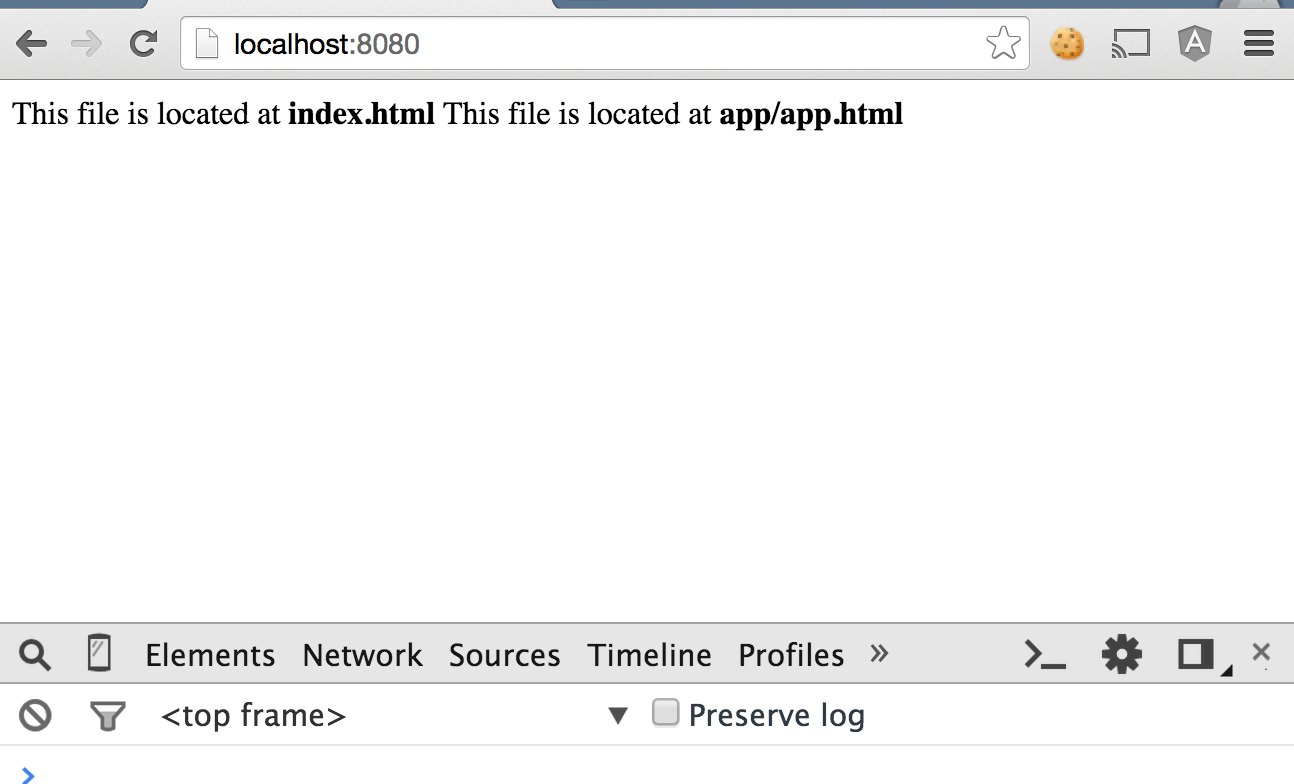
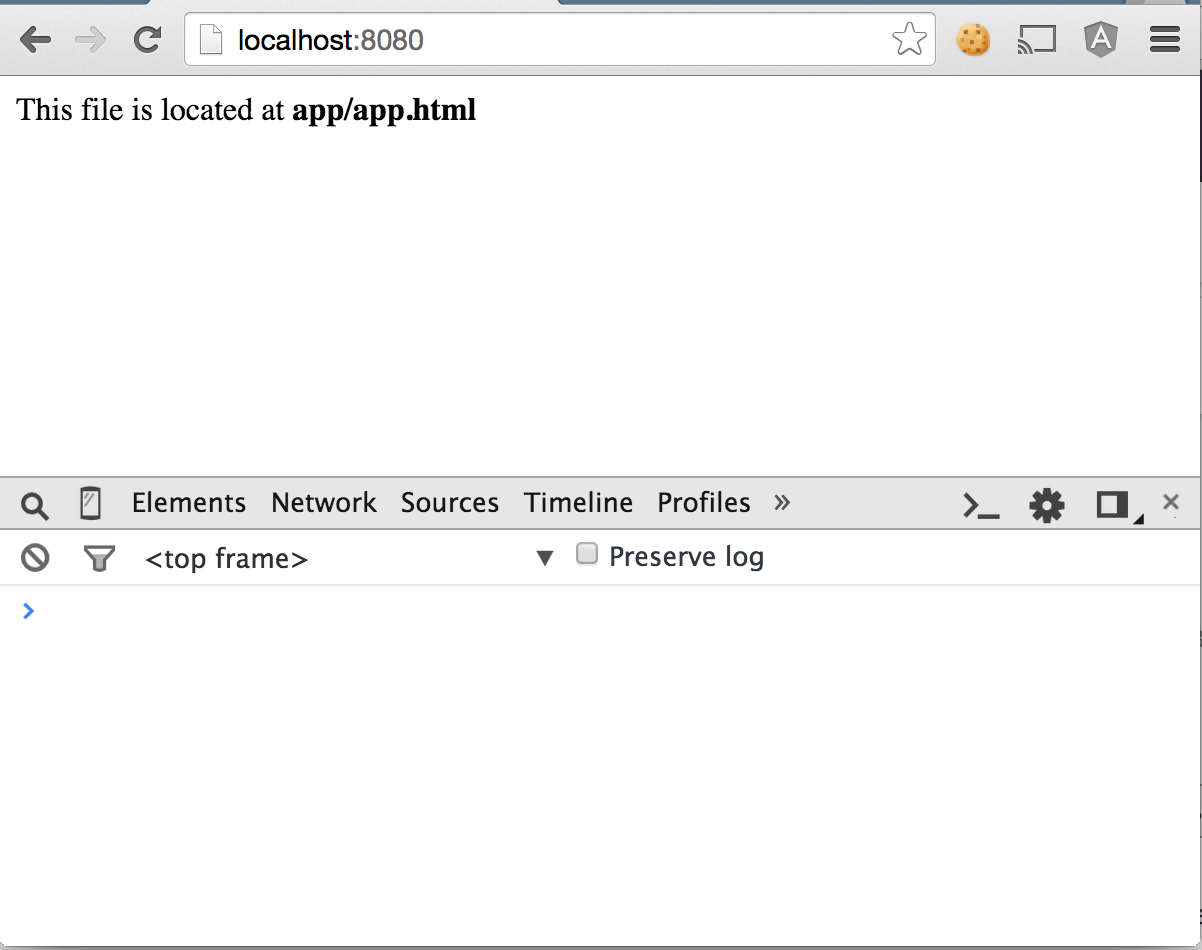
Add Router config

Changed region(s): [[0.0, 0.0, 1.0, 1.0]]

diff --git a/posts/1/ng2-js-routing/app/app.js b/posts/1/ng2-js-routing/app/app.js
@@ -1,10 +1,29 @@
-function AppComponent() {}
+function AppComponent(router) {
+  router.config({
+    path: '/',
+    component: HomeComponent,
+    as: 'home'
+  })
+
+  router.config({
+    path: '/about',
+    component: AboutComponent,
+    as: 'about'
+  })
+}
+
+AppComponent.parameters = [[angular.router.Router]]
 
 AppComponent.annotations = [
   new angular.ComponentAnnotation({
-    selector: 'app'
+    selector: 'app',
+    injectables: [angular.router.Router]
   }),
   new angular.ViewAnnotation({
-    templateUrl: 'app/app.html'
+    templateUrl: 'app/app.html',
+    directives: [
+      angular.router.RouterLink,
+      angular.router.RouterOutlet
+    ]
   })
 ];

diff --git a/posts/1/ng2-js-routing/index.html b/posts/1/ng2-js-routing/index.html
@@ -3,11 +3,12 @@
   <head>
   </head>
   <body>
-    This file is located at <strong>index.html</strong>
     <app>
     </app>
 
     <script src="https://code.angularjs.org/2.0.0-alpha.26/angular2.sfx.dev.js"></script>
+    <script src="app/about/about.js"></script>
+    <script src="app/home/home.js"></script>
     <script src="app/app.js"></script>
     <script src="index.js"></script>
   </body>

diff --git a/posts/1/ng2-js-routing/app/home/home.js b/posts/1/ng2-js-routing/app/home/home.js
@@ -1,0 +1,13 @@
+function HomeComponent () {
+  console.log('HomeComponent instantiated')
+}
+
+HomeComponent.annotations = [
+  new angular.ComponentAnnotation({
+  //   selector: 'app',
+  //   injectables: [angular.router.Router]
+  }),
+  // new angular.ViewAnnotation({
+  //   templateUrl: 'app/home/home.html'
+  // })
+]

diff --git a/posts/1/ng2-js-routing/app/app.html b/posts/1/ng2-js-routing/app/app.html
@@ -1,1 +1,12 @@
-This file is located at <strong>app/app.html</strong>
+<div class="container">
+  <nav>
+    <ul>
+      <li><a router-link="home">Home</a></li>
+      <li><a router-link="about">About</a></li>
+    </ul>
+  </nav>
+
+  <div class="main">
+    <router-outlet></router-outlet>
+  </div>
+</div>

diff --git a/posts/1/ng2-js-routing/index.js b/posts/1/ng2-js-routing/index.js
@@ -1,3 +1,5 @@
 document.addEventListener('DOMContentLoaded', function() {
-  angular.bootstrap(AppComponent);
+  angular.bootstrap(AppComponent, [
+    angular.router.routerInjectables
+  ]);
 });

diff --git a/posts/1/ng2-js-routing/app/about/about.js b/posts/1/ng2-js-routing/app/about/about.js
@@ -1,0 +1,7 @@
+function AboutComponent() {
+  console.log('AboutComponent instantiated')
+}
+
+AboutComponent.annotations = [
+  new angular.ComponentAnnotation()
+]

diff --git a/posts/1/ng2-js-routing/app/app.css b/posts/1/ng2-js-routing/app/app.css
@@ -1,0 +1,11 @@
+app .container {
+  display: -webkit-flex;
+  display: flex;
+}
+app nav {
+  width: 200px;
+}
+app .main {
+  -webkit-flex: 1;
+  flex: 1;
+}

diff --git a/posts/1/ng2-js-routing/app/about/about.html b/posts/1/ng2-js-routing/app/about/about.html
@@ -1,0 +1,1 @@
+This file is located at <strong>app/about/about.html</strong>

diff --git a/posts/1/ng2-js-routing/app/home/home.html b/posts/1/ng2-js-routing/app/home/home.html
@@ -1,0 +1,1 @@
+This file is located at <strong>app/home/home.html</strong>

diff --git a/posts/1/README.md b/posts/1/README.md
@@ -146,6 +146,7 @@ Onto bootstrapping the app.
 ```
 ng2-js-routing
 ├── app
+│   ├── app.css
 │   ├── app.html
 │   └── app.js
 ├── index.html
@@ -160,7 +161,6 @@ ng2-js-routing
   <head>
   </head>
   <body>
-    This file is located at <strong>index.html</strong>
     <app>
     </app>
     
@@ -213,5 +213,119 @@ document.addEventListener('DOMContentLoaded', function() {
 [server](http://stackoverflow.com/a/12905427)
 
 <image src="10.png" />
+
+`app.css`
+
+```css
+app .container {
+  display: -webkit-flex;
+  display: flex;
+}
+app nav {
+  width: 200px;
+}
+app .main {
+  -webkit-flex: 1;
+  flex: 1;
+}
+```
+
+`app.html`
+
+```html
+<div class="container">
+  <nav>
+    <ul>
+      <li>
+        <a href="">Home</a>
+      </li>
+      <li>
+        <a href="">About</a>
+      </li>
+    </ul>
+  </nav>
+
+  <div class="main">
+  </div>
+</div>
+```
+
+<image src="11.png" />
+
+## Inject the Router
+
+`index.js`
+
+```js
+document.addEventListener('DOMContentLoaded', function() {
+  angular.bootstrap(AppComponent, [
+    angular.router.routerInjectables
+  ]);
+});
+```
+
+`app.js`
+
+```js
+function AppComponent(router) {
+  console.log(router)
+}
+
+AppComponent.parameters = [[angular.router.Router]]
+
+AppComponent.annotations = [
+  new angular.ComponentAnnotation({
+    selector: 'app',
+    injectables: [angular.router.Router]
+  }),
+  new angular.ViewAnnotation({
+    templateUrl: 'app/app.html'
+  })
+];
+```
+
+<image src="12.png" />
+
+## Configure The Router
+
+```
+ng2-js-routing
+├── app
+│   ├── app.css
+│   ├── app.html
+│   ├── app.js
+│   └── home
+│       ├── home.html
+│       └── home.js
+├── index.html
+└── index.js
+```
+
+`app.js`
+
+```javascript
+function AppComponent(router) {
+  router.config({
+    path: '/',
+    component: Home,
+    as: 'home'
+  })
+}
+```
+
+`home.js`
+
+```javascript
+function HomeComponent () {
+  console.log('HomeComponent instantiated')
+}
+
+HomeComponent.annotations = [
+  new angular.ComponentAnnotation({
+  })
+]
+```
+
+<image src="13.png" />
 
 
